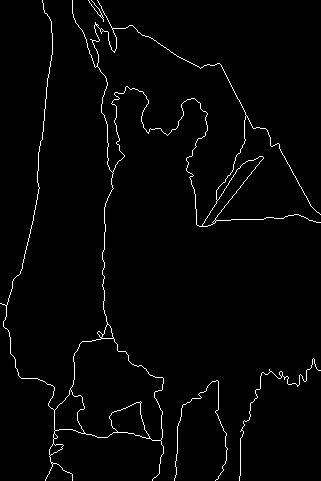
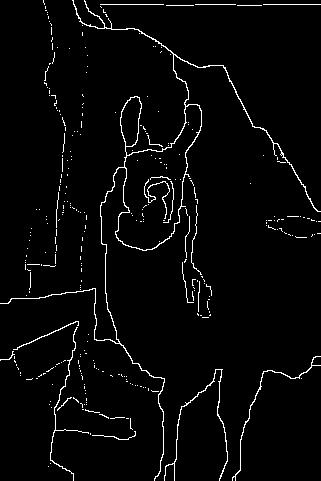
Renamed LaplacianOfGaussian in MarrHildret -Aggiornati i GroundTruth per il benchmark

diff --git a/src/EdgeDetectorFactory.py b/src/EdgeDetectorFactory.py
@@ -2,7 +2,7 @@ from RobertsCross import RobertsCross
 from Sobel import Sobel
 from Prewitt import Prewitt
 from Canny import Canny
-from LaplacianOfGaussian import LaplacianOfGaussian
+from MarrHildret import MarrHildret
 
 
 class EdgeDetectorFactory:
@@ -37,5 +37,5 @@ class EdgeDetectorFactory:
             return Canny(self.get_single(mask), lowThreshold, highThreshold )
     
     def get_zero(self, type, mask, threshold):
-        if type == "LoG":
-            return LaplacianOfGaussian(mask, threshold)
+        if type == "MarrHildret":
+            return MarrHildret(mask, threshold)

diff --git a/src/MetricsFunction.py b/src/MetricsFunction.py
@@ -67,13 +67,13 @@ class MetricsFunction():
             for y in range(edges.size[1]):
                 e = edges.getpixel((x,y))
                 g = groundTruth.getpixel((x,y))
-                if e == max_e and g == max_g:
+                if e == max_e and g > 0:
                     TP += 1
                 elif e == max_e and g == 0:
                     FP += 1
                 elif e == 0 and g == 0:
                     TN += 1
-                elif e == 0 and g == max_g:
+                elif e == 0 and g > 0 :
                     FN += 1
         return TP, FP, TN, FN
 

diff --git a/src/Benchmark.py b/src/Benchmark.py
@@ -10,13 +10,13 @@ FilterSIGMA = 2.3
 FilterDIM = 3*FilterSIGMA
 directory = 'Benchmark_Images/'
 result_dir = 'Benchmark_Result/'
-groundtruth_dir = directory+'/GroundTruth/'
+groundtruth_dir = directory+'GroundTruth/'
 SINGLE_FASE = ["RobertsCross", "Sobel", "Prewitt"]
 MULTI_FASE = { "Canny": ["RobertsCross", "Sobel", "Prewitt"] }
-ZERO_CROSS = ["LoG"]
+ZERO_CROSS = ["MarrHildret"]
 
 single_threshold = 80
-double_threshold = [0.05, 0.25]
+double_threshold = [0.1, 0.30]
 
 def load_image(filename):
     image = ImageUtil.load_image( directory+filename )

diff --git a/src/MarrHildret.py b/src/MarrHildret.py
@@ -1,8 +1,8 @@
 from ZeroCrossingEdgeDetector import ZeroCrossingEdgeDetector
-class LaplacianOfGaussian (ZeroCrossingEdgeDetector):
+class MarrHildret (ZeroCrossingEdgeDetector):
     
     def __init__(self, filter, thresholdRatio = 0.85):
         
         self.logFilter = filter
-        self.name = "LoG"
+        self.name = "MarrHildret (LoG)"
         self.thresholdRatio = thresholdRatio

diff --git a/src/Steps.py b/src/Steps.py
@@ -11,7 +11,7 @@ directory = 'Steps_Images/'
 result_dir = 'Steps_Result/'
 SINGLE_FASE = ["RobertsCross", "Sobel", "Prewitt"]
 MULTI_FASE = { "Canny": ["RobertsCross", "Sobel", "Prewitt"] }
-ZERO_CROSS = ["LoG"]
+ZERO_CROSS = ["MarrHildret"]
 
 single_threshold = 100
 double_threshold = [0.05, 0.25]
